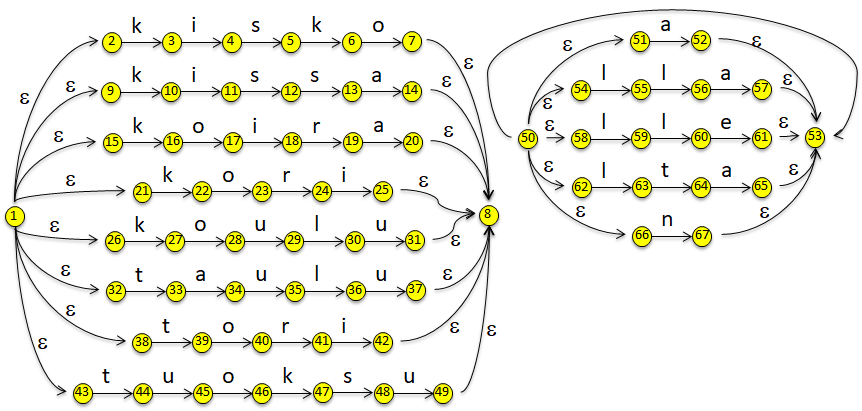
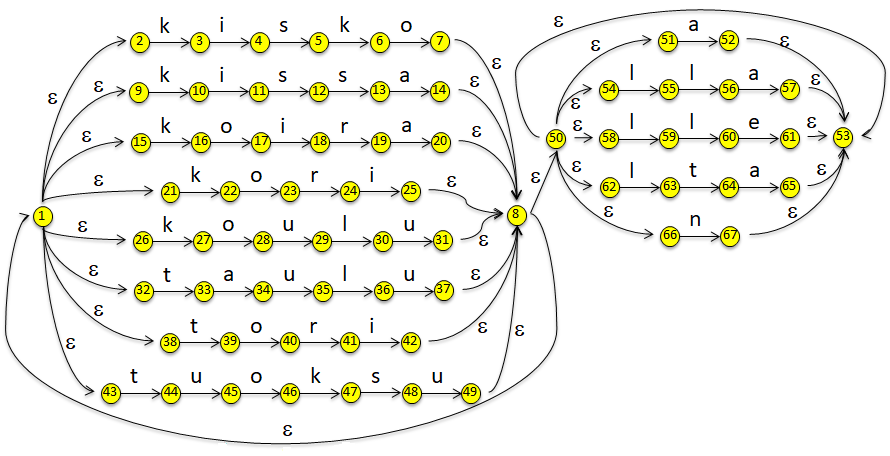
Fix images.

Changed region(s): [[0.0, 0.0, 1.0, 0.9927], [0.6636, 0.0292, 0.7239, 0.0584]]

diff --git a/Lecture8/src/Part1.py b/Lecture8/src/Part1.py
@@ -12,34 +12,32 @@
 # <img src="img/noun_lexicon.png">
 
 from hfst_dev import HfstIterableTransducer, EPSILON
-noun_lexicon = HfstIterableTransducer()
-add = noun_lexicon.add_transition
-
-# set start and end state numbers
+# This will be the entire lexicon
+lexicon = HfstIterableTransducer()
+add = lexicon.add_transition # shorter notation for adding transition
+# define sublexicon start and end states
 start_state = 1
 end_state = 8
-
-# Add 'kisko'
+# and use consecutive numbering for states that will be added
+# (remember to skip end state)
 state = 2
-add(start_state, state, EPSILON, EPSILON, 0.0)
+
+# we could add lexemes manually, e.g.
+#   add(2, 3, 'k', 'k', 0.0)
+#   add(3, 4, 'i', 'i', 0.0)
+#   add(4, 5, 's', 's', 0.0)
+#   add(5, 6, 'k', 'k', 0.0)
+#   add(6, 7, 'o', 'o', 0.0)
+# but it is easier this way:
+add(start_state, state, EPSILON, EPSILON, 0.0) # from start state to beginning of lexeme
 for symbol in list('kisko'):
     add(state, state+1, symbol, symbol, 0.0)
     state += 1
-# equivalent to:
-# add(2, 3, 'k', 'k', 0.0)
-# add(3, 4, 'i', 'i', 0.0)
-# add(4, 5, 's', 's', 0.0)
-# add(5, 6, 'k', 'k', 0.0)
-# add(6, 7, 'o', 'o', 0.0)
-
-add(state, end_state, EPSILON, EPSILON, 0.0)
+add(state, end_state, EPSILON, EPSILON, 0.0) # from end of lexeme to end state
 
 # skip end state
 assert(state == 7)
 state += 2
-
-# Test the result:
-print(noun_lexicon)
 
 # Add rest of the lexemes
 for lexeme in ('kissa','koira','kori','koulu','taulu','tori','tuoksu'):
@@ -50,10 +48,8 @@ for lexeme in ('kissa','koira','kori','koulu','taulu','tori','tuoksu'):
     add(state, end_state, EPSILON, EPSILON, 0.0)
     state += 1
 
-# Does it look right:
-print(noun_lexicon)
-
-test_lexicon = HfstIterableTransducer(noun_lexicon)
+# test that the result is as intended
+test_lexicon = HfstIterableTransducer(lexicon)
 test_lexicon.add_transition(0, 1, EPSILON, EPSILON, 0.0)
 test_lexicon.set_final_weight(8, 0.0)
 
@@ -66,27 +62,118 @@ assert(result.compare(tr))
 # Then let’s create a continuation lexicon with case endings and start populating it.
 #
 # <img src="img/continuation_lexicon.png">
-#
+
+assert(state == 50)
+state += 1
+start_state = 50
+end_state = 53
+
+# Add case endings
+for ending in ('a','lla','lle','lta','n'):
+    # skip end state
+    if state == end_state:
+        state += 1
+    add(start_state, state, EPSILON, EPSILON, 0.0)
+    for symbol in list(ending):
+        add(state, state+1, symbol, symbol, 0.0)
+        state += 1
+    add(state, end_state, EPSILON, EPSILON, 0.0)
+    state += 1
+# make case ending optional
+add(50, 53, EPSILON, EPSILON, 0.0)
+
+assert(state == 68)
+
 # Then we tie the lexicons together and also add an epsilon transition from the end of the stem lexicon to its beginning in order to allow compound words
 #
 # <img src="img/compound_lexicon.png"> 
-#
+
+add(8, 50, EPSILON, EPSILON, 0.0)
+add(8, 1, EPSILON, EPSILON, 0.0)
+
+# test that the result is as intended
+test_lexicon = HfstIterableTransducer(lexicon)
+test_lexicon.add_transition(0, 1, EPSILON, EPSILON, 0.0)
+test_lexicon.set_final_weight(53, 0.0)
+
+tr = HfstTransducer(test_lexicon)
+tr.minimize()
+result = regex('[{kisko}|{kissa}|{koira}|{kori}|{koulu}|{taulu}|{tori}|{tuoksu}]+ ({a}|{lla}|{lle}|{lta}|{n})')
+assert(result.compare(tr))
+
 # Next let’s add a lexicon for verb stems.
 #
 # <img src="img/lexicon_verb_stems.png">
-#
+
+assert(state == 68)
+start_state = 68
+end_state = 75
+state += 1
+
+# Add verb stem endings
+for stem in ('kisko','tuoksu'):
+    # skip end state
+    if state == end_state:
+        state += 1
+    add(start_state, state, EPSILON, EPSILON, 0.0)
+    for symbol in list(stem):
+        add(state, state+1, symbol, symbol, 0.0)
+        state += 1
+    add(state, end_state, EPSILON, EPSILON, 0.0)
+    state += 1
+
 # ... and a continuation lexicon for present-tense person endings (mainly)
 #
 # <img src="img/lexicon_person_endings.png">
-#
+
+assert(state == 83)
+start_state = 83
+end_state = 86
+state +=1
+
+# Add person endings
+for ending in ('a','mme','n','t','tte','vat'):
+    # skip end state
+    if state == end_state:
+        state += 1
+    add(start_state, state, EPSILON, EPSILON, 0.0)
+    for symbol in list(ending):
+        add(state, state+1, symbol, symbol, 0.0)
+        state += 1
+    add(state, end_state, EPSILON, EPSILON, 0.0)
+    state += 1
+
+# make person ending optional
+add(83, 86, EPSILON, EPSILON, 0.0)
+
+assert(state == 103)
+
 # Let’s tie the verb stem lexicon together with the endings lexicon.
 #
 # <img src="img/lexicon_verbs_and_endings.png">
-#
+
+add(75, 83, EPSILON, EPSILON, 0.0)
+
 # ... and let’s tie the whole network together with a start state and end state
 #
 # <img src="img/lexicon_tied_together.png">
-#
+
+add(0, 1, EPSILON, EPSILON, 0.0)
+add(0, 68, EPSILON, EPSILON, 0.0)
+add(53, 103, EPSILON, EPSILON, 0.0)
+add(86, 103, EPSILON, EPSILON, 0.0)
+lexicon.set_final_weight(103, 0.0)
+
+# test that the result is as intended
+tr = HfstTransducer(lexicon)
+tr.minimize()
+result = regex("""
+[ [{kisko}|{kissa}|{koira}|{kori}|{koulu}|{taulu}|{tori}|{tuoksu}]+ ({a}|{lla}|{lle}|{lta}|{n}) ]
+| 
+[ [{kisko}|{tuoksu}] ({a}|{mme}|{n}|{t}|{tte}|{vat}) ]
+""")
+assert(result.compare(tr))
+
 # ### 1.2. The resulting network
 #
 # The network is now ready. It has some advantages
@@ -98,7 +185,7 @@ assert(result.compare(tr))
 #
 # * The automaton is non-deterministic and contains epsilon transitions
 #   * This means that from a specific state, some symbol s can take you to more than one another state.
-#   * For instance, from the initial state 103, the symbol “k” could take you to state 3, 10, 16, 22, 27, or 70.
+#   * For instance, from the initial state 0, the symbol “k” could take you to state 3, 10, 16, 22, 27, or 70.
 #   * Imagine a scenario with a more realistic, larger vocabulary: using the network would be very slow, because of all the paths that have to be investigated.
 #
 # <img src="img/lexicon_epsilon_transitions.png">
@@ -119,7 +206,10 @@ assert(result.compare(tr))
 # * 4. And the symbol “i” takes us to the states 4, 11, and 71, so we keep merging states and updating the transitions.
 #
 # <img src="img/determinizing_the_network_3.png">
-#
+
+tr = HfstTransducer(lexicon)
+tr.determinize()
+
 # ### 1.4. Minimization of the network
 #
 # Furthermore, there is another disadvantage with the original network
@@ -132,7 +222,10 @@ assert(result.compare(tr))
 # <img src="img/minimizing_the_network_1.png">
 #
 # <img src="img/minimizing_the_network_2.png">
-#
+
+tr = HfstTransducer(lexicon)
+tr.minimize()
+
 # ### 1.5. Further issues
 #
 # * The epsilon transition back to the beginning that produces compound words is nasty:
@@ -224,15 +317,17 @@ assert(result.compare(tr))
 #
 # <img src="img/network_with_tropical_weights.png">
 #
-# Another example of weighted determinization in the tropical semiring:
+# #### Another example of weighted determinization in the tropical semiring
 #
 # <img src="img/weighted_determinization_example.png">
 #
-# Weight pushing and minimization:
+# Weights must be pushed before minimization can take place:
 #
 # <img src="img/weight_pushing_and_minimization.png">
 #
-# Mehryar Mohri did not work on morphology,but on automatic speech recognition:
+# #### Other uses
+#
+# Mehryar Mohri did not work on morphology, but on automatic speech recognition:
 #
 # <img src="img/speech_recognition.png">
 #
